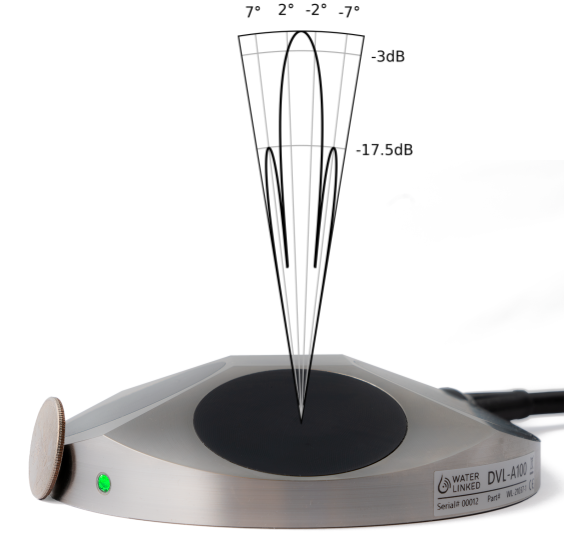
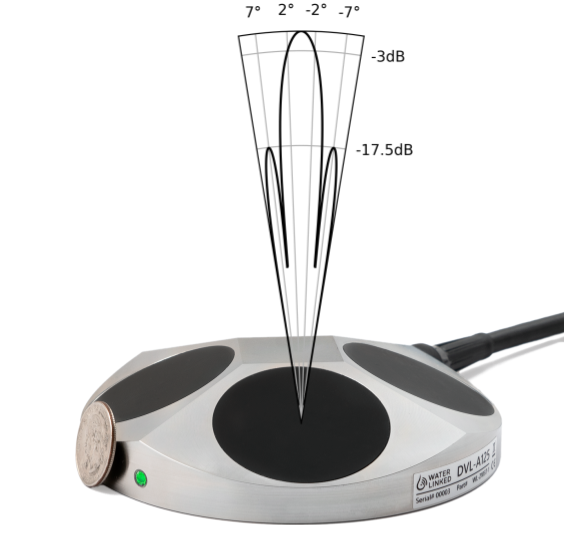
Update image

Changed region(s): [[0.0301, 0.5682, 1.0, 1.0]]

diff --git a/docs/dvl/dvl-a125.md b/docs/dvl/dvl-a125.md
@@ -1,6 +1,6 @@
 # DVL-A125
 
-![dvl_A125](../img/DVLA125-coin-light-white.png)
+![dvl_A125](../img/dvl-a125-coin-light-white.png)
 
 ## Description
 The DVL-A125 is the next step up from the DVL-A50, providing even better performance at greater distances while still keeping a small form factor relative to competing DVLs.
